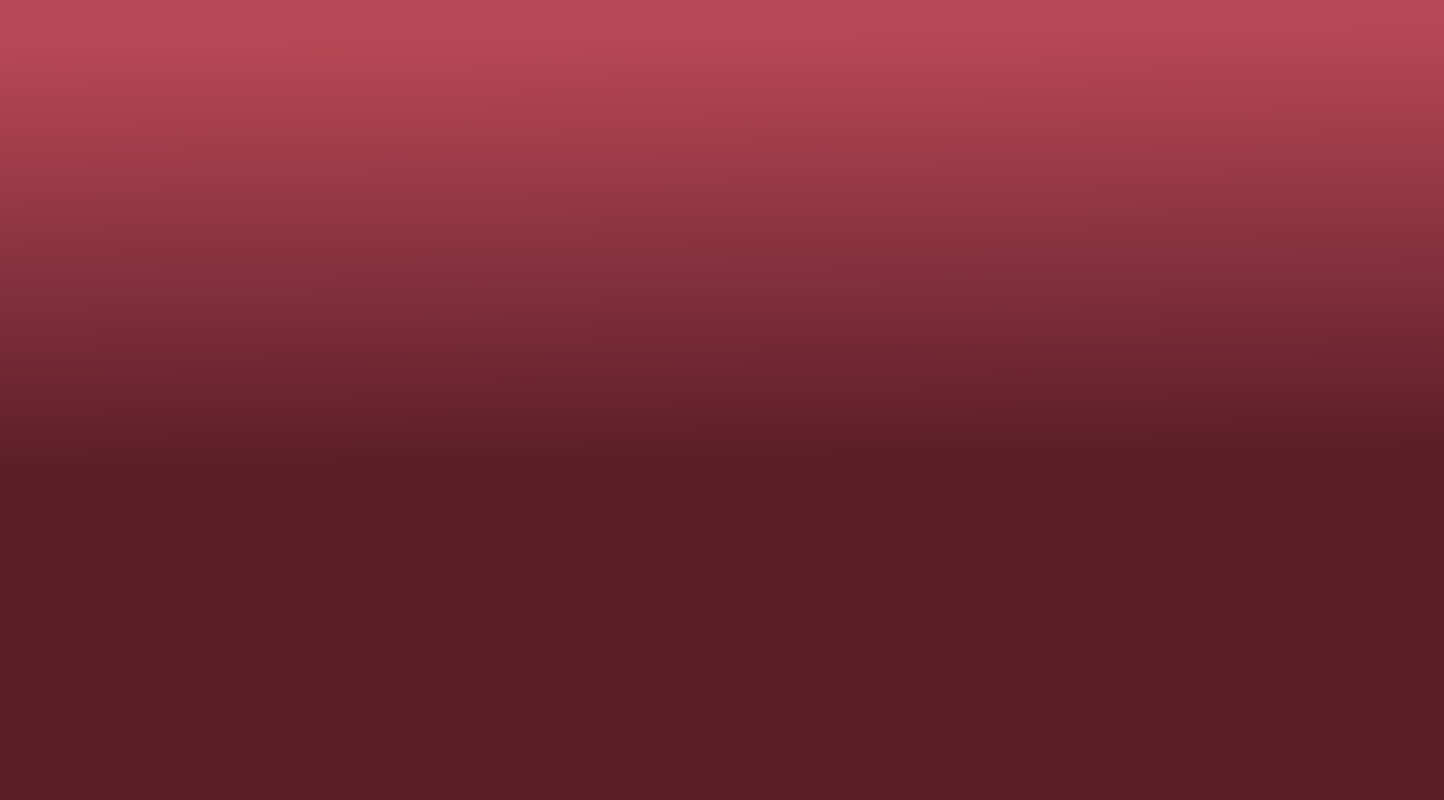
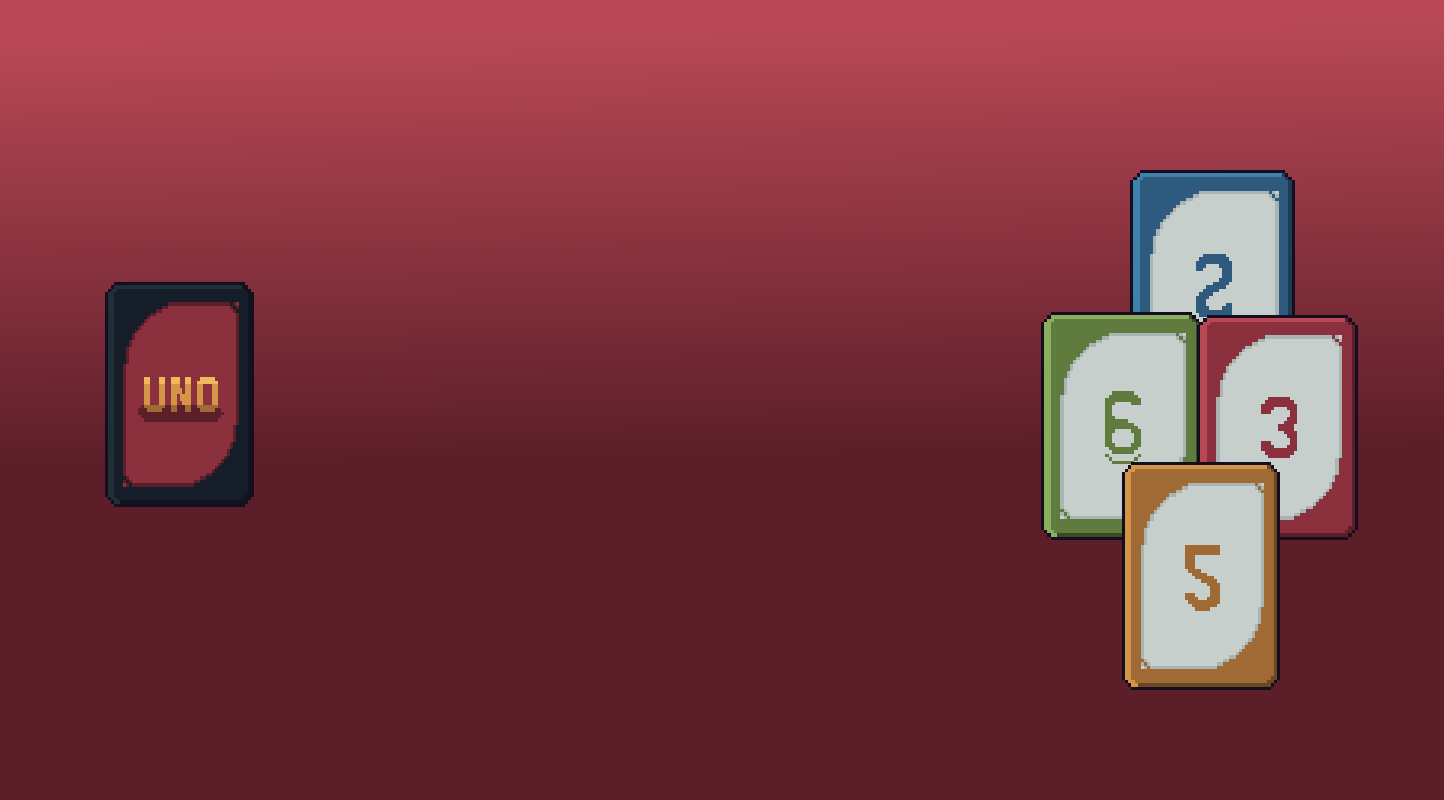
feat: add new UI assets and update game scenes for improved player experience

Changed region(s): [[0.7168, 0.1875, 0.9661, 0.875], [0.0623, 0.3438, 0.187, 0.6562]]

diff --git a/client/src/game/scenes/MainMenu.ts b/client/src/game/scenes/MainMenu.ts
@@ -1,18 +1,26 @@
-// src/game/scenes/MainMenu.ts
 import { Scene } from 'phaser';
 import { Socket } from 'socket.io-client';
 
 export class MainMenu extends Scene {
   private socket!: Socket;
+  private playerNameInput!: Phaser.GameObjects.DOMElement;
+  private playerName: string = '';
 
   constructor() {
     super('MainMenu');
   }
 
+  preload() {
+    this.load.setPath('assets');
+
+    this.load.image('logo', 'Carta_logo.png');
+    this.load.image('createButton', 'buttons/CreateButton.png');
+    this.load.image('joinButton', 'buttons/JoinButton.png');
+  }
+
   create() {
     const { width, height } = this.scale;
 
-    // 1. Récupérer socket depuis le registry
     this.socket = this.registry.get('socket');
 
     if (!this.socket) {
@@ -22,60 +30,70 @@ export class MainMenu extends Scene {
 
     console.log('Socket ID in MainMenu:', this.socket.id);
 
-    // 2. Background
     this.add.image(width / 2, height / 2, 'background');
 
-    // 3. Logo Carta (en haut)
     this.add.image(width / 2, 150, 'logo').setScale(0.38);
 
-    // 4. Afficher l'ID du socket (pour tester)
-    this.add.text(width / 2, 280, `Socket ID: ${this.socket.id}`, {
-      fontSize: '18px',
-      color: '#ffffff',
-      fontStyle: 'bold'
-    }).setOrigin(0.5).setAlpha(0.7);
-
-    // 5. Bouton "Test Create Room"
-    this.createButton(
-      width / 2,
-      height / 2 + 50,
-      'Test Create Room',
-      () => this.testCreateRoom()
-    );
-
-    // 6. Bouton "Test Join Room"
-    this.createButton(
-      width / 2,
-      height / 2 + 150,
-      'Test Join Room',
-      () => this.testJoinRoom()
-    );
-
-    // 7. Écouter les events du serveur
-    this.setupSocketListeners();
-  }
-
-  createButton(x: number, y: number, text: string, callback: () => void) {
-    // Background du bouton
-    const bg = this.add.rectangle(x, y, 300, 60, 0x3498db)
-      .setInteractive()
-      .on('pointerover', () => bg.setFillStyle(0x2980b9))
-      .on('pointerout', () => bg.setFillStyle(0x3498db))
-      .on('pointerdown', callback);
-
-    // Texte du bouton
-    this.add.text(x, y, text, {
+    // Label pour l'input
+    this.add.text(width / 2, height / 2 - 80, 'Your Name:', {
       fontSize: '24px',
-      color: '#fff',
-      fontFamily: 'Arial',
+      color: '#ffffff',
       fontStyle: 'bold'
     }).setOrigin(0.5);
 
-    return bg;
+    // Input HTML pour le nom du joueur
+    this.playerNameInput = this.add.dom(width / 2, height / 2 - 30).createFromHTML(`
+      <input 
+        type="text" 
+        id="playerNameInput"
+        placeholder="Enter your name" 
+        maxlength="20"
+        style="
+          width: 300px;
+          padding: 12px 20px;
+          font-size: 18px;
+          border: 3px solid #4169e1;
+          border-radius: 8px;
+          text-align: center;
+          background: rgba(255, 255, 255, 0.95);
+          color: #333;
+          font-family: Arial, sans-serif;
+          font-weight: bold;
+          outline: none;
+        "
+      />
+    `);
+
+    // Récupérer la valeur de l'input
+    const input = this.playerNameInput.node.querySelector('#playerNameInput') as HTMLInputElement;
+    input.addEventListener('input', (e) => {
+      this.playerName = (e.target as HTMLInputElement).value;
+    });
+
+    const createButton = this.add.image(
+      width / 2,
+      height / 2 + 80,
+      'createButton'
+    ).setInteractive({ useHandCursor: true }).setScale(1.5);
+
+    createButton.on('pointerover', () => createButton.setTint(0xcccccc));
+    createButton.on('pointerout', () => createButton.clearTint());
+    createButton.on('pointerdown', () => this.testCreateRoom());
+
+    const joinButton = this.add.image(
+      width / 2,
+      height / 2 + 180,
+      'joinButton'
+    ).setInteractive({ useHandCursor: true }).setScale(1.5);
+
+    joinButton.on('pointerover', () => joinButton.setTint(0xcccccc));
+    joinButton.on('pointerout', () => joinButton.clearTint());
+    joinButton.on('pointerdown', () => this.testJoinRoom());
+
+    this.setupSocketListeners();
   }
 
   setupSocketListeners() {
-    // Écouter la réponse de create_room
     this.socket.on('create_room_success', (data) => {
       console.log('✅ Room created:', data);
       alert(`Room created! ID: ${data.room.id}`);
@@ -86,7 +104,6 @@ export class MainMenu extends Scene {
       alert(`Error: ${data.message}`);
     });
 
-    // Écouter la réponse de join_room
     this.socket.on('player_joined', (data) => {
       console.log('✅ Player joined:', data);
       alert(`Joined room! Players: ${data.room.players.length}`);
@@ -99,8 +116,8 @@ export class MainMenu extends Scene {
   }
 
   testCreateRoom() {
+    const playerName = this.playerName.trim() || 'Player' + Math.floor(Math.random() * 100);
     const roomId = 'test-room-' + Math.floor(Math.random() * 1000);
-    const playerName = 'Player' + Math.floor(Math.random() * 100);
 
     console.log('📤 Emitting create_room:', { roomId, playerName });
 
@@ -112,10 +129,9 @@ export class MainMenu extends Scene {
   }
 
   testJoinRoom() {
+    const playerName = this.playerName.trim() || 'Player' + Math.floor(Math.random() * 100);
     const roomId = prompt('Enter room ID:');
     if (!roomId) return;
-
-    const playerName = 'Player' + Math.floor(Math.random() * 100);
 
     console.log('📤 Emitting join_room:', { roomId, playerName });
 
@@ -125,7 +141,6 @@ export class MainMenu extends Scene {
     });
   }
 
-  // Nettoyer les listeners quand on quitte la scène
   shutdown() {
     this.socket.off('create_room_success');
     this.socket.off('create_room_error');

diff --git a/client/src/game/scenes/Preloader.ts b/client/src/game/scenes/Preloader.ts
@@ -1,4 +1,5 @@
 import { Scene } from 'phaser';
+import { connectSocket, socket } from '../../utils/socket';
 
 export class Preloader extends Scene
 {
@@ -9,19 +10,14 @@ export class Preloader extends Scene
 
     init ()
     {
-        //  We loaded this image in our Boot Scene, so we can display it here
         this.add.image(512, 384, 'background');
 
-        //  A simple progress bar. This is the outline of the bar.
         this.add.rectangle(512, 384, 468, 32).setStrokeStyle(1, 0xffffff);
 
-        //  This is the progress bar itself. It will increase in size from the left based on the % of progress.
         const bar = this.add.rectangle(512-230, 384, 4, 28, 0xffffff);
 
-        //  Use the 'progress' event emitted by the LoaderPlugin to update the loading bar
         this.load.on('progress', (progress: number) => {
 
-            //  Update the progress bar (our bar is 464px wide, so 100% = 464px)
             bar.width = 4 + (460 * progress);
 
         });
@@ -29,18 +25,39 @@ export class Preloader extends Scene
 
     preload ()
     {
-        //  Load the assets for the game - Replace with your own assets
         this.load.setPath('assets');
 
         this.load.image('logo', 'Carta_logo.png');
     }
 
-    create ()
+    async create ()
     {
-        //  When all the assets have loaded, it's often worth creating global objects here that the rest of the game can use.
-        //  For example, you can define global animations here, so we can use them in other scenes.
+        const connectingText = this.add.text(
+            this.cameras.main.width / 2,
+            this.cameras.main.height / 2,
+            'Connecting to server...',
+            {
+                fontSize: '28px',
+                color: '#ffffff'
+            }
+        ).setOrigin(0.5);
 
-        //  Move to the MainMenu. You could also swap this for a Scene Transition, such as a camera fade.
-        this.scene.start('MainMenu');
+        try {
+            await connectSocket();
+            this.registry.set('socket', socket);
+            
+            connectingText.setText('Connected!');
+            
+            this.time.delayedCall(500, () => {
+                this.scene.start('MainMenu');
+            });
+            
+        } catch (error) {
+            connectingText.setText('Connection failed!\nRetry in 3s...');
+            
+            this.time.delayedCall(3000, () => {
+                this.scene.restart();
+            });
+        }
     }
 }

diff --git a/client/src/game/scenes/Boot.ts b/client/src/game/scenes/Boot.ts
@@ -1,5 +1,4 @@
 import { Scene } from 'phaser';
-import { connectSocket, socket } from '../../utils/socket';
 
 export class Boot extends Scene
 {
@@ -10,34 +9,27 @@ export class Boot extends Scene
 
     preload ()
     {
-        //  The Boot Scene is typically used to load in any assets you require for your Preloader, such as a game logo or background.
-        //  The smaller the file size of the assets, the better, as the Boot Scene itself has no preloader.
-
         this.load.image('background', 'assets/bg.png');
+        this.load.image('logo', 'assets/Carta_logo.png');
+        this.load.image('playButton', 'assets/buttons/PlayButton.png');
     }
 
-    async create ()
+    create ()
     {   
-        const connectingText = this.add.text(
-            this.cameras.main.width / 2,
-            this.cameras.main.height / 2,
-            'Connecting to server...',
-            {
-                fontSize: '32px',
-                color: '#ffffff'
-            }
-        ).setOrigin(0.5);
+        const { width, height } = this.scale;
 
-        try{
-            await connectSocket();
-            this.registry.set('socket', socket);
+        this.add.image(width / 2, height / 2, 'background');
+
+        this.add.image(width / 2, height / 2 - 250, 'logo').setScale(0.38);
+
+        const playButton = this.add.image(
+            width / 2,
+            height / 2 + 100,
+            'playButton'
+        ).setInteractive({ useHandCursor: true }).setScale(1.5);
+
+        playButton.on('pointerdown', () => {
             this.scene.start('Preloader');
-        } catch (error) {
-            connectingText.setText('Connection failed!\nRetry in 3s...');
-            
-            this.time.delayedCall(3000, () => {
-                this.scene.restart();
-            });
-        }
+        });
     }
 }

diff --git a/client/src/game/main.ts b/client/src/game/main.ts
@@ -13,9 +13,13 @@ const config: Phaser.Types.Core.GameConfig = {
     height: 768,
     parent: 'game-container',
     backgroundColor: '#028af8',
+
+    dom: {
+        createContainer: true
+    },
     
     render: {
-        pixelArt: true,  // False car tu n'utilises pas du pixel art strict
+        pixelArt: false,  // False car tu n'utilises pas du pixel art strict
         antialias: false,  // Active l'anti-aliasing
         roundPixels: true // Arrondit les positions pour éviter le flou
     },
